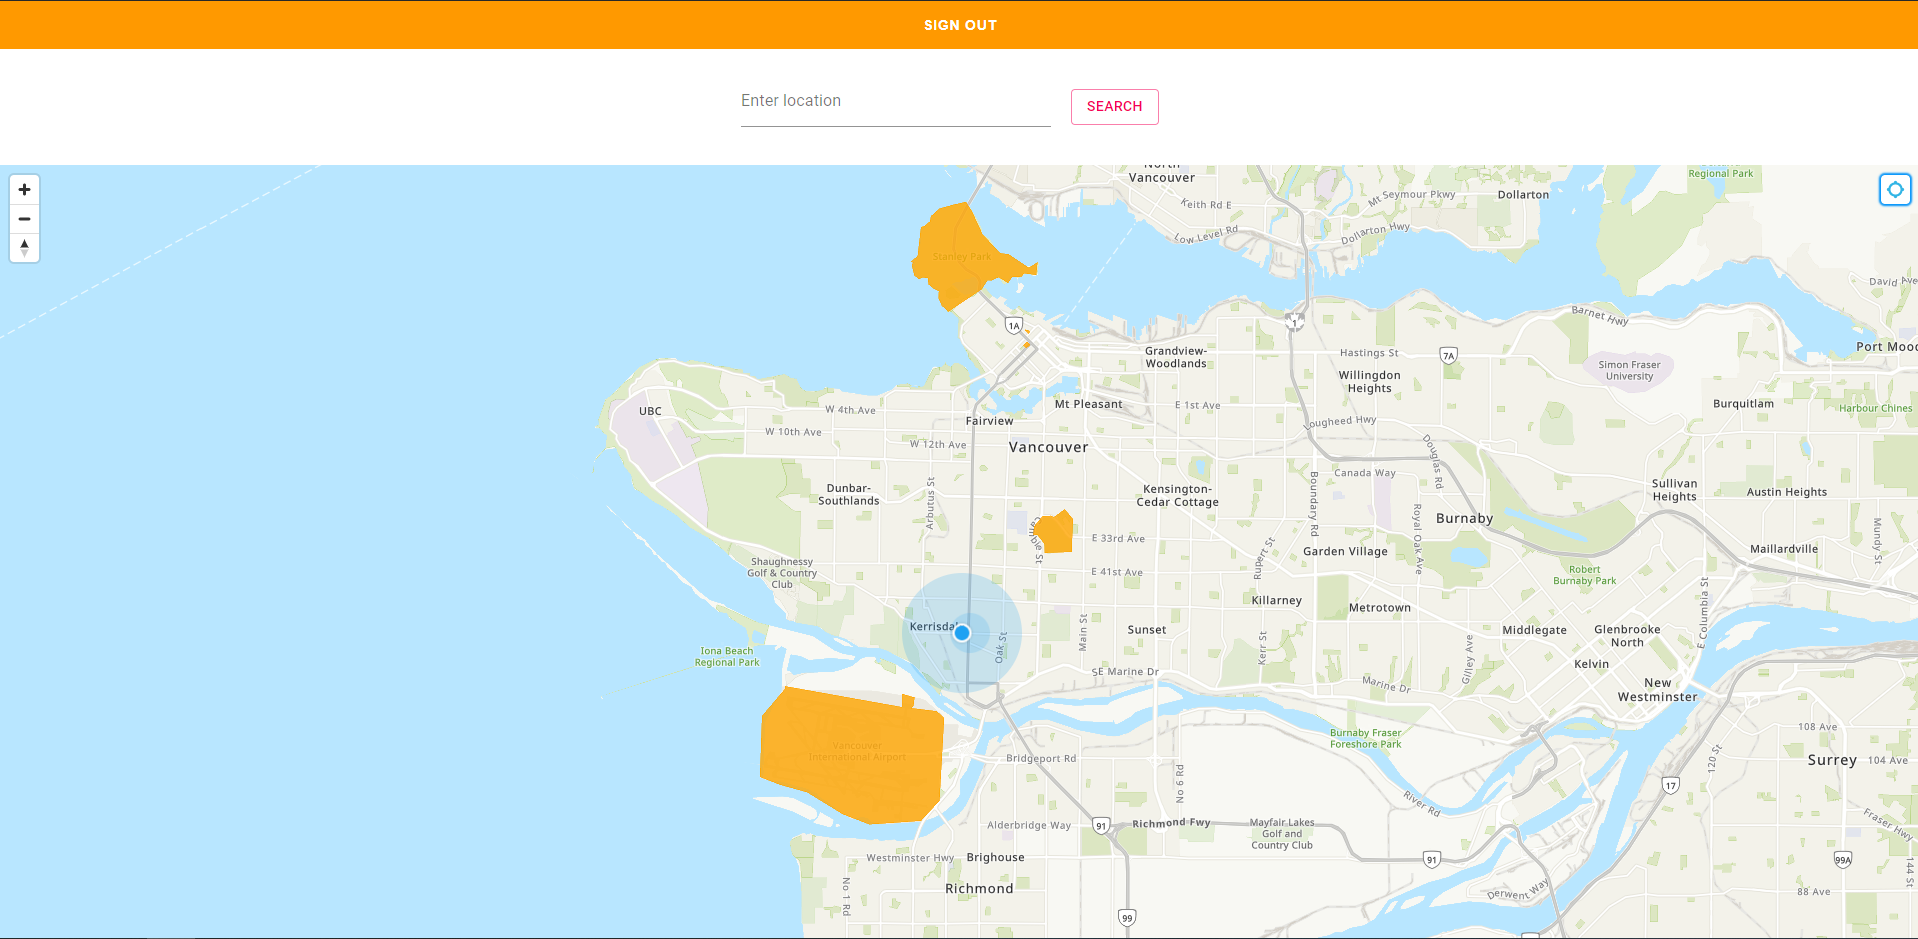
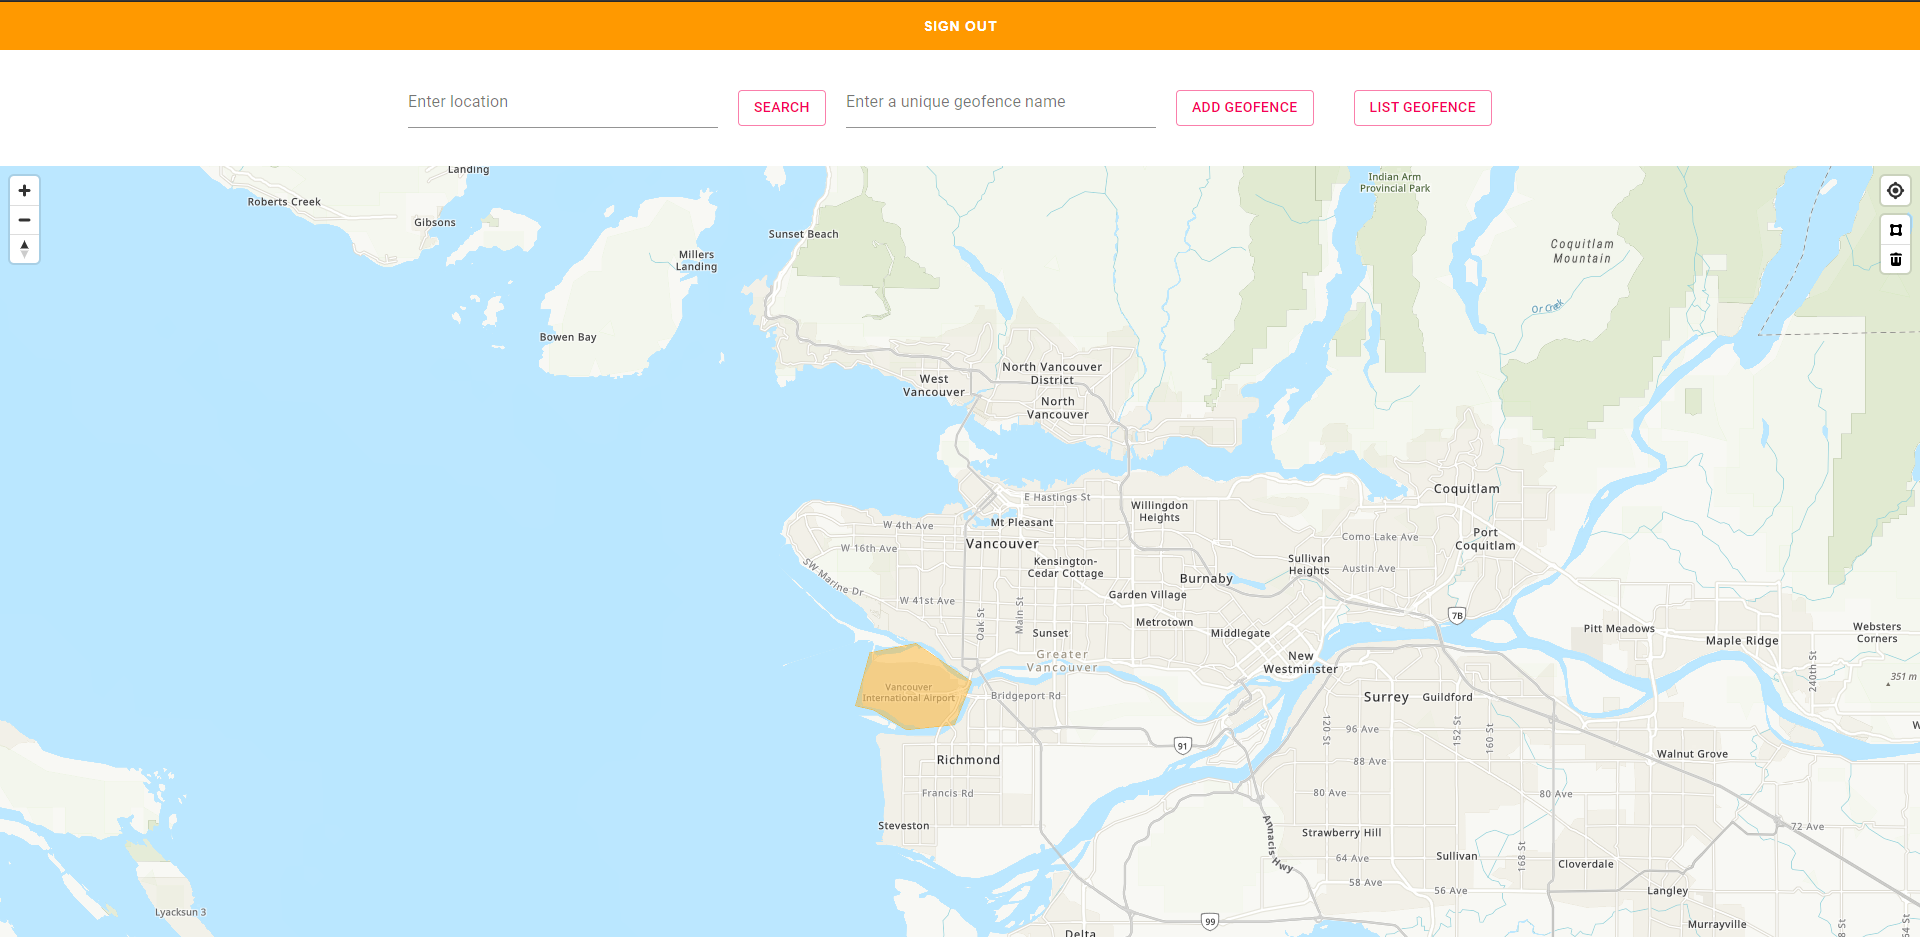
readme update

diff --git a/README.md b/README.md
@@ -13,7 +13,7 @@ Location service is only available in the regions below (As of Feb 10, 2021).
 Make sure your sso profile is using one those regions.
 
 
-## How to use
+## Creating the resources required
 1. Install dependencies using `npm install`
 2. Log into aws and initiate this project as an Amplify project: `amplify init`
 3. Add authentication to this project:
@@ -24,12 +24,11 @@ Make sure your sso profile is using one those regions.
    ? Do you want to configure advanced settings?  No, I am done.
    ```
    
-4. To create map resource, follow the instructions [here](https://docs.aws.amazon.com/location/latest/developerguide/create-map-resource.html)
+4. Create map resource, follow the instructions [here](https://docs.aws.amazon.com/location/latest/developerguide/create-map-resource.html)
    - Take a note of the map name
-5. To create a place index resource, follow the instructions [here](https://docs.aws.amazon.com/location/latest/developerguide/create-place-index-resource.html)
+5. Create a place index resource, follow the instructions [here](https://docs.aws.amazon.com/location/latest/developerguide/create-place-index-resource.html)
     - Take a note of the place index name
-6. To create a geofence collection, follow the instructions [here](https://docs.aws.amazon.com/location/latest/developerguide/add-geofences.html)
-   - You can use the example geojson file in this [github page](https://github.com/UBC-CIC/Amazon-Location-Template/tree/main/geofence%20examples) and upload this file onto the geofence collection you just created
+6. Create a geofence collection, follow the instructions [here](https://docs.aws.amazon.com/location/latest/developerguide/add-geofences.html)
    - Take a note of the geofence collection name
 
 7. Go to [AWS Cognito Console](https://console.aws.amazon.com/cognito/home)
@@ -40,63 +39,11 @@ Make sure your sso profile is using one those regions.
     
 8. Go to [AWS IAM Console](https://console.aws.amazon.com/iam/)
     1. Click roles on the left panel
-    2. Click onto the role name noted from step 7.5
-    3. Now, we need to add 3 differenct inline policies to this role
-    4. Remember to change REGION, ACCOUNTID, MAPNAME, PLACEINDEXNAME and GEOFENCECOLLECTIONNAME to the ones associated with your account
-    
-    - Map resource access policy
-   ```
-    {
-    "Version": "2012-10-17",
-    "Statement": [
-        {
-            "Sid": "MapsReadOnly",
-            "Effect": "Allow",
-            "Action": [
-                "geo:GetMapStyleDescriptor",
-                "geo:GetMapGlyphs",
-                "geo:GetMapSprites",
-                "geo:GetMapTile"
-            ],
-            "Resource": "arn:aws:geo:REGION:ACCOUNTID:map/MAPNAME"
-             }
-        ]
-   }
-   ```
-    - Place index access policy
-    ```
-   {
-    "Version": "2012-10-17",
-    "Statement": [
-        {
-            "Sid": "PlacesReadOnly",
-            "Effect": "Allow",
-            "Action": [
-                "geo:SearchPlaceIndex*"
-            ],
-            "Resource": "arn:aws:geo:REGION:ACCOUNTID:place-index/PLACEINDEXNAME"
-            }
-        ]
-    }
-   ```
-      - Geofence collection access policy
-      
-      ```
-         {
-       "Version": "2012-10-17",
-       "Statement": [
-           {
-               "Sid": "GetGeofences",
-               "Effect": "Allow",
-               "Action": [
-                   "geo:ListGeofencesPage",
-                   "geo:GetGeofence"
-               ],
-               "Resource": "arn:aws:geo:REGION:ACCOUNTID:geofence-collection/GEOFENCECOLLECTIONNAME"
-            }
-         ]
-      }
-      ```
+    2. Click onto the authenticated role name noted from step 7.4
+   3. Add the following inline policies with the resource ARN
+      <img src="./docs/images/locationPolicies.png"  width="800"/>
+      <img src="./docs/images/resourceARN.png"  width="800"/>
+
 
 9. Create a local env file for map name and place index name
     1. Under the root directory, create a file named .env
@@ -112,6 +59,16 @@ Make sure your sso profile is using one those regions.
     
     <img src="./docs/images/login.png"  width="800"/>
     <img src="./docs/images/map.png"  width="800"/>
+    <img src="./docs/images/listGeofence.png" width="800"/>
+
+
+## How to use
+- Type in address/location name on the search text field and click search
+- To create a geofence, draw exactly 1 geofence using the draw tool on the top-right corner
+- Enter a unique geofence name for it
+- Click add geofence, you will see the geofence in the table and aws
+
+
 
 
 
